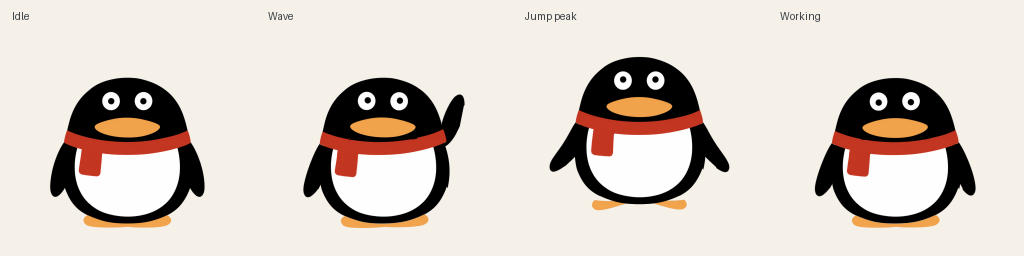
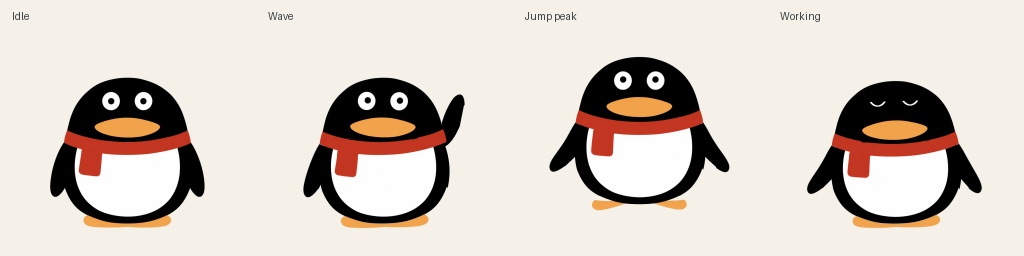
Make Pip working motion readable at overlay size

diff --git a/scripts/test_working_motion.py b/scripts/test_working_motion.py
@@ -1,0 +1,91 @@
+"""Check that the encoded work loop stays readable at a small pet size."""
+
+import argparse
+from collections import deque
+from pathlib import Path
+import unittest
+
+from PIL import Image, ImageChops
+
+
+ROOT = Path(__file__).resolve().parents[1]
+parser = argparse.ArgumentParser(add_help=False)
+parser.add_argument("--input", type=Path, default=ROOT / "assets" / "spritesheet.png")
+options, test_args = parser.parse_known_args()
+
+
+class WorkingMotionChecks(unittest.TestCase):
+    @classmethod
+    def setUpClass(cls):
+        with Image.open(options.input) as atlas:
+            cls.frames = [atlas.crop((column * 192, 7 * 208,
+                                      (column + 1) * 192, 8 * 208)).convert("RGBA")
+                          for column in range(6)]
+        cls.small = [frame.resize((96, 104)) for frame in cls.frames]
+
+    def test_motion_survives_small_overlay_including_loop_seam(self):
+        for index, frame in enumerate(self.small):
+            following = self.small[(index + 1) % len(self.small)]
+            difference = ImageChops.difference(frame, following)
+            visible = ImageChops.lighter(
+                ImageChops.lighter(difference.getchannel("R"),
+                                  difference.getchannel("G")),
+                difference.getchannel("B"))
+            changed = sum(visible.histogram()[24:])
+            with self.subTest(frame=index):
+                self.assertGreaterEqual(changed, 300,
+                                        "Work motion is too subtle at half size.")
+
+    def test_both_flippers_move_and_soles_stay_planted(self):
+        edges, soles = [], []
+        for frame in self.small:
+            alpha = frame.getchannel("A").point(lambda value: 255 if value >= 128 else 0)
+            bounds = alpha.crop((0, 55, 96, 84)).getbbox()
+            edges.append((bounds[0], bounds[2]))
+            feet = [y for y in range(75, 104) for x in range(96)
+                    if self.is_foot(frame.getpixel((x, y)))]
+            self.assertTrue(feet, "Work frame lost its feet.")
+            soles.append(max(feet))
+        for side in range(2):
+            positions = [edge[side] for edge in edges]
+            self.assertGreaterEqual(max(positions) - min(positions), 4,
+                                    "Both outward flipper sweeps must remain visible.")
+        self.assertLessEqual(max(soles) - min(soles), 1,
+                             "The work cycle should keep the feet on the ground.")
+
+    @staticmethod
+    def is_foot(pixel):
+        red, green, blue, alpha = pixel
+        return alpha > 128 and red > 150 and 75 < green < red * .9 and blue < green * .9
+
+    def test_no_detached_limb_or_scarf_fragments(self):
+        for index, frame in enumerate(self.frames):
+            width, height = frame.size
+            alpha = frame.getchannel("A").tobytes()
+            remaining = {point for point, value in enumerate(alpha) if value >= 32}
+            components = []
+            while remaining:
+                queue = deque([remaining.pop()])
+                count = 0
+                while queue:
+                    point = queue.popleft()
+                    count += 1
+                    x, y = point % width, point // width
+                    neighbors = []
+                    if x: neighbors.append(point - 1)
+                    if x + 1 < width: neighbors.append(point + 1)
+                    if y: neighbors.append(point - width)
+                    if y + 1 < height: neighbors.append(point + width)
+                    for neighbor in neighbors:
+                        if neighbor in remaining:
+                            remaining.remove(neighbor)
+                            queue.append(neighbor)
+                if count >= 8:
+                    components.append(count)
+            with self.subTest(frame=index):
+                self.assertEqual(len(components), 1,
+                                 "The work pose contains a detached visible fragment.")
+
+
+if __name__ == "__main__":
+    unittest.main(argv=[__file__, *test_args])

diff --git a/scripts/make_previews.py b/scripts/make_previews.py
@@ -127,6 +127,12 @@ def main():
             stills.paste(labeled_frame(frame, label), (index * tile_width, 0))
         save_png(stills, "motion-stills.png")
 
+        working = Image.new("RGB", (tile_width * 3, tile_height * 2), BACKGROUND)
+        for index, frame in enumerate(state_frames["running"]):
+            tile = labeled_frame(frame, f"Working {index + 1}/6")
+            working.paste(tile, ((index % 3) * tile_width, (index // 3) * tile_height))
+        save_png(working, "working-stills.png")
+
     print(json.dumps({"gifs": gif_count, "contact_sheet": "contact-sheet.png",
                       "duration_ms": args.duration, "source": str(source),
                       "output": str(args.output), "files": generated_files}))
